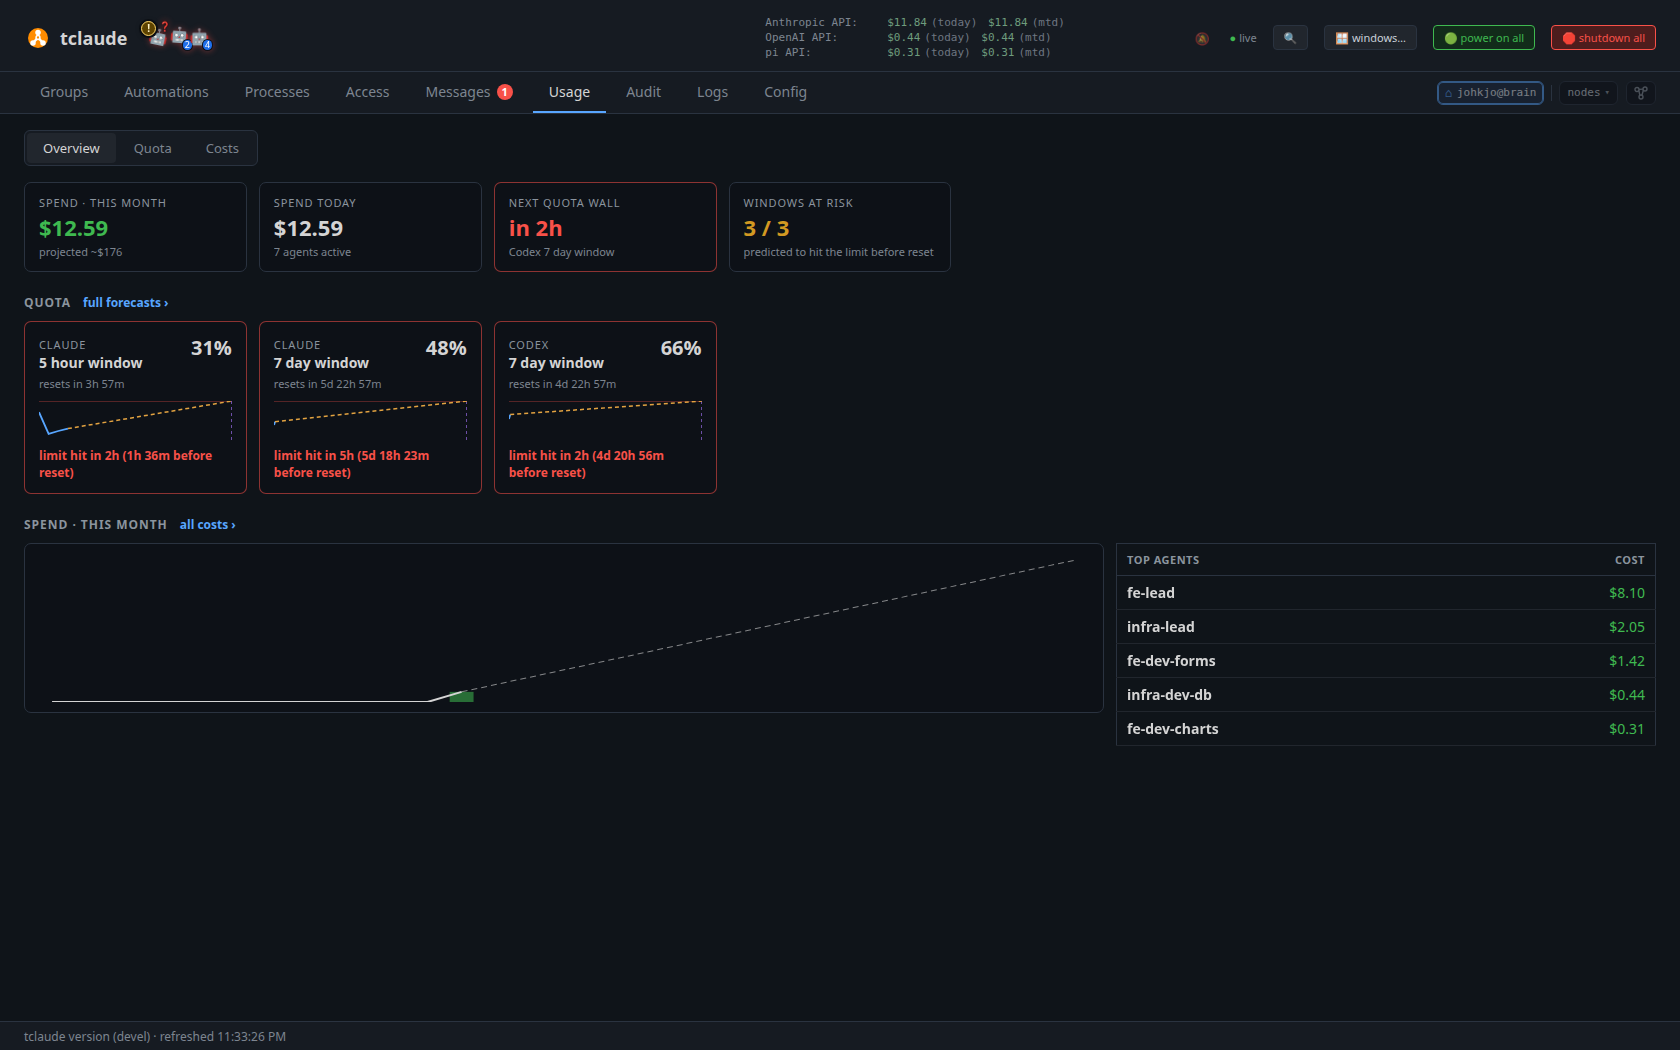
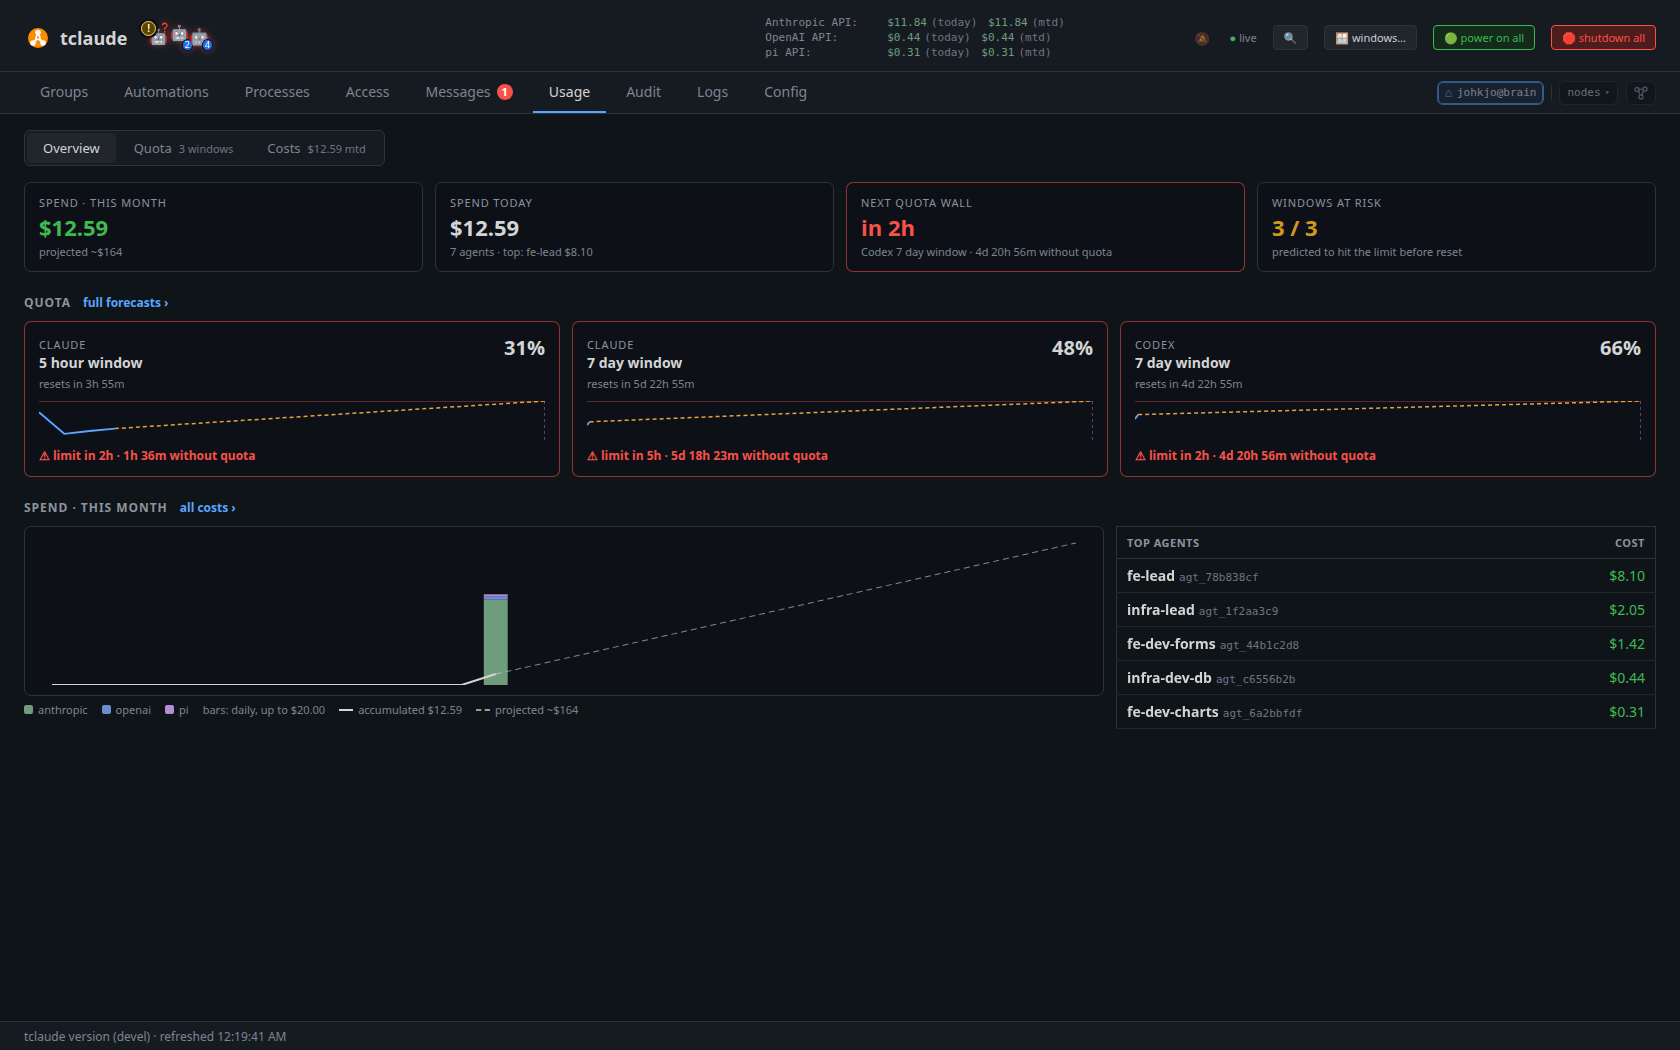
Bring the Usage overview closer to its mock and keep Costs findable
Inspection pass against the approved mock and the old tabs:
- Spend bars get their own daily scale and stack by provider in the
  Costs palette, with a legend naming both scales; they were near
  invisible on the projection's scale.
- Headline and quota cards fill the row; quota cards show a one-line
  "limit in 2h · 1h 36m without quota" status.
- Spend today names today's top agent; the next quota wall says how
  long it goes without quota; top agents keep their ids.
- Quota and Costs subtabs carry window-count and spend badges.
- The Overview surfaces the Quota view's OpenCode coverage warning.
- The command palette regains Costs (and Quota) commands, lost with the
  retired nav tab; the header cost link and the palette share one
  hub open() path.

diff --git a/pkg/claude/agentd/dashboard/js/usage-hub-island.js b/pkg/claude/agentd/dashboard/js/usage-hub-island.js
@@ -1,11 +1,13 @@
 import { h, render } from 'preact';
 import { useEffect, useState } from 'preact/hooks';
 import htm from 'htm';
-import { isModifiedClick } from './helpers.js';
+import { isModifiedClick, shortAgentId } from './helpers.js';
 import { isWizardActive } from './slop.js';
-import { COST_SPANS, dayKey, fmtExactUSD, fmtUSD } from './costs-model.js';
 import {
-  formatUsageResetCountdown, formatUsageTime, usageForecastOf, usageForecastView,
+  COST_SPANS, costProviderLabel, dayKey, fmtExactUSD, fmtUSD, niceCeil, providerSegmentClass,
+} from './costs-model.js';
+import {
+  formatUsageDuration, formatUsageResetCountdown, formatUsageTime, usageForecastOf, usageForecastView,
   usageProviderLabel, usageSeriesKeyOf, usageWindowScopeLabel,
 } from './usage-history-model.js';
 import { usageLocation } from './usage-hub-state.js';
@@ -84,7 +86,9 @@ export function topCostAgents(rows, limit = 5) {
   const byAgent = new Map();
   for (const row of rows || []) {
     const key = row.agent_id || row.conv_id;
-    const entry = byAgent.get(key) || { key, title: row.title || '(unknown)', cost: 0, whatIf: false };
+    const entry = byAgent.get(key) || {
+      key, title: row.title || '(unknown)', agentID: row.agent_id, convID: row.conv_id, cost: 0, whatIf: false,
+    };
     entry.cost += row.cost_usd || 0;
     entry.whatIf ||= row.cost_kind === 'what_if' || row.cost_kind === 'mixed';
     byAgent.set(key, entry);
@@ -99,9 +103,49 @@ export function todaySpend(costs, now = new Date()) {
   const key = dayKey(now);
   const day = (costs.narrowed?.days || []).find((item) => item.day === key);
   if (!day) return null;
-  const agents = new Set((costs.rows || []).filter((row) => row.day === key)
-    .map((row) => row.agent_id || row.conv_id));
-  return { cost: day.cost_usd || 0, agents: agents.size };
+  const top = topCostAgents((costs.rows || []).filter((row) => row.day === key), Infinity);
+  return { cost: day.cost_usd || 0, agents: top.length, top: top[0] || null };
+}
+
+// gapBeforeReset is how long a window predicted to hit its limit before it
+// resets stays without quota; '' when the forecast does not say.
+export function gapBeforeReset(forecast) {
+  if (forecast?.status !== 'before_reset') return '';
+  const gap = new Date(forecast.reset_at).getTime() - new Date(forecast.hits_limit_at).getTime();
+  return Number.isFinite(gap) && gap > 0 ? formatUsageDuration(gap) : '';
+}
+
+// quotaStatusLine is the compact card's one-line prediction. The full
+// sentence (and its rate) stays on the Quota view.
+export function quotaStatusLine(item, wizard = false) {
+  const w = (plain, wizardly) => (wizard ? wizardly : plain);
+  const forecast = item.forecast;
+  if (item.status === 'limit') return w('⚠ limit reached', '⚠ the reserves are spent');
+  if (item.status === 'before_reset' || item.status === 'projected') {
+    const gap = gapBeforeReset(forecast);
+    return `⚠ ${w('limit', 'dry')} ${formatUsageTime(forecast.hits_limit_at, item.now)}${gap ? ` · ${gap} ${w('without quota', 'without mana')}` : ''}`;
+  }
+  if (item.status === 'after_reset' || item.status === 'flat') return `✓ ${w('resets before the limit', 'the reserves hold')}`;
+  return item.view.headline.replace(/^(Prediction|Prophecy): /, '');
+}
+
+// spendDays splits each day of the shown span by provider, in the Costs
+// view's provider palette, so the Overview's bars read like its stacks.
+export function spendDays(costs) {
+  const providers = costs.providers || [];
+  const agents = costs.narrowed?.agents || [];
+  return (costs.narrowed?.days || []).map((day) => {
+    const byProvider = new Map();
+    for (const agent of agents) {
+      if (agent.day !== day.day || !(agent.cost_usd > 0)) continue;
+      const provider = costProviderLabel(agent);
+      byProvider.set(provider, (byProvider.get(provider) || 0) + agent.cost_usd);
+    }
+    const segments = [...byProvider].map(([provider, cost]) => ({
+      provider, cost, className: providerSegmentClass(provider, providers),
+    })).sort((a, b) => providers.indexOf(a.provider) - providers.indexOf(b.provider));
+    return { day: day.day, cost: day.cost_usd || 0, whatIf: day.cost_kind === 'what_if', segments };
+  });
 }
 
 // ---- Views -----------------------------------------------------------------
@@ -148,7 +192,7 @@ function QuotaCard({ item, wizard, onOpen }) {
     </div>
     <span class="usage-ov-meta">${item.reset || (latest ? formatUsageTime(latest.at, item.now) : '')}</span>
     <${Sparkline} points=${item.points} forecast=${item.forecast} now=${item.now} />
-    <span class=${`usage-ov-status ${tone}`}>${item.view.headline.replace(/^(Prediction|Prophecy): /, '')}</span>
+    <span class=${`usage-ov-status ${tone}`} title=${item.view.headline}>${quotaStatusLine(item, wizard)}</span>
   </a>`;
 }
 
@@ -161,31 +205,51 @@ function Kpi({ label, value, meta, tone = '', onOpen, href }) {
 }
 
 function SpendChart({ costs }) {
-  const days = costs.narrowed?.days || [];
+  const days = spendDays(costs);
   const W = 720;
   const H = 150;
   if (!days.length) return html`<div class="usage-ov-chart empty">No days in span.</div>`;
   const future = costs.projection?.future || [];
   const slots = days.length + future.length;
   let running = 0;
-  const cumulative = days.map((day) => (running += day.cost_usd || 0));
-  const top = Math.max(running, costs.projection?.total || 0, ...days.map((day) => day.cost_usd || 0)) || 1;
+  const cumulative = days.map((day) => (running += day.cost));
+  // Two scales, as in the mock: the bars read the day-to-day pace, the line
+  // the running total and where the projection lands. The legend names both.
+  const dailyTop = niceCeil(Math.max(...days.map((day) => day.cost))) || 1;
+  const totalTop = Math.max(running, costs.projection?.total || 0) || 1;
   const bw = W / slots;
-  const y = (value) => H - (value / top) * (H - 6);
-  const line = cumulative.map((value, index) => `${(index + 0.5) * bw},${y(value)}`).join(' ');
-  return html`<div class="usage-ov-chart" role="img"
-    aria-label=${`${spanLabel(costs)} spend ${fmtExactUSD(running)}${costs.projection ? `, projected ${fmtExactUSD(costs.projection.total)}` : ''}`}>
-    <svg viewBox=${`0 0 ${W} ${H}`} preserveAspectRatio="none" aria-hidden="true">
-      ${days.map((day, index) => {
-        const height = H - y(day.cost_usd || 0);
-        return height > 0 && html`<rect key=${day.day} class=${`bar ${day.cost_kind === 'what_if' ? 'what-if' : ''}`}
-          x=${index * bw + bw * 0.15} y=${H - height} width=${bw * 0.7} height=${height}>
-          <title>${day.day}: ${fmtExactUSD(day.cost_usd || 0)}</title></rect>`;
-      })}
-      <polyline class="cumulative" points=${line} />
-      ${costs.projection && html`<line class="projection" x1=${(days.length - 0.5) * bw} y1=${y(running)}
-        x2=${W - bw / 2} y2=${y(costs.projection.total)} />`}
-    </svg>
+  const yDaily = (value) => (value / dailyTop) * (H - 4);
+  const yTotal = (value) => H - (value / totalTop) * (H - 6);
+  const line = cumulative.map((value, index) => `${(index + 0.5) * bw},${yTotal(value)}`).join(' ');
+  const providers = [...new Set(days.flatMap((day) => day.segments.map((segment) => segment.provider)))];
+  return html`<div class="usage-ov-chart-wrap">
+    <div class="usage-ov-chart" role="img"
+      aria-label=${`${spanLabel(costs)} spend ${fmtExactUSD(running)}${costs.projection ? `, projected ${fmtExactUSD(costs.projection.total)}` : ''}`}>
+      <svg viewBox=${`0 0 ${W} ${H}`} preserveAspectRatio="none" aria-hidden="true">
+        ${days.map((day, index) => {
+          let top = H;
+          return html`<g key=${day.day} class=${day.whatIf ? 'what-if' : ''}>
+            <title>${day.day}: ${fmtExactUSD(day.cost)}${day.segments.length > 1
+              ? ` (${day.segments.map((segment) => `${segment.provider} ${fmtUSD(segment.cost)}`).join(', ')})` : ''}</title>
+            ${day.segments.map((segment) => {
+              const height = yDaily(segment.cost);
+              top -= height;
+              return html`<rect key=${segment.provider} class=${`bar ${segment.className}`}
+                x=${index * bw + bw * 0.15} y=${top} width=${bw * 0.7} height=${height} />`;
+            })}
+          </g>`;
+        })}
+        <polyline class="cumulative" points=${line} />
+        ${costs.projection && html`<line class="projection" x1=${(days.length - 0.5) * bw} y1=${yTotal(running)}
+          x2=${W - bw / 2} y2=${yTotal(costs.projection.total)} />`}
+      </svg>
+    </div>
+    <div class="usage-ov-legend">
+      ${providers.map((provider) => html`<span key=${provider}><i class=${`swatch ${providerSegmentClass(provider, costs.providers || [])}`}></i>${provider}</span>`)}
+      <span>bars: daily, up to ${fmtUSD(dailyTop)}</span>
+      <span><i class="line"></i>accumulated ${fmtUSD(running)}</span>
+      ${costs.projection && html`<span><i class="line dashed"></i>projected ~${fmtUSD(costs.projection.total)}</span>`}
+    </div>
   </div>`;
 }
 
@@ -211,19 +275,23 @@ function Overview({ quota, costs, wizard, open }) {
       <${Kpi} label=${w('Spend today', 'Spent today')} href="/usage/costs" onOpen=${goCosts}
         value=${!costsLoaded ? '…' : today ? fmtUSD(today.cost) : '—'}
         meta=${!costsLoaded ? '' : today
-          ? `${today.agents} agent${today.agents === 1 ? '' : 's'} active`
+          ? `${today.agents} agent${today.agents === 1 ? '' : 's'}${today.top ? ` · top: ${today.top.title} ${fmtUSD(today.top.cost)}` : ''}`
           : `not in ${spanLabel(costs)}`} />
       <${Kpi} label=${w('Next quota wall', 'Next dry spell')} href="/usage/quota" onOpen=${goQuota}
         tone=${wall ? 'danger' : 'good'}
         value=${!quotaLoaded ? '…' : wall ? (wall.status === 'limit' ? w('now', 'now') : formatUsageTime(wall.forecast.hits_limit_at, wall.now)) : w('none', 'none')}
         meta=${!quotaLoaded ? '' : wall
-          ? `${usageProviderLabel(wall.series.provider)} ${usageWindowScopeLabel(wall.series, wizard)}`
+          ? `${usageProviderLabel(wall.series.provider)} ${usageWindowScopeLabel(wall.series, wizard)}${gapBeforeReset(wall.forecast)
+            ? ` · ${gapBeforeReset(wall.forecast)} ${w('without quota', 'without mana')}` : ''}`
           : w('no window predicted to run out', 'every reserve holds')} />
       <${Kpi} label=${w('Windows at risk', 'Reserves at risk')} href="/usage/quota" onOpen=${goQuota}
         tone=${atRisk ? 'warn' : 'good'}
         value=${quotaLoaded ? `${atRisk} / ${summaries.length}` : '…'}
         meta=${quotaLoaded ? w('predicted to hit the limit before reset', 'foretold to run dry before replenishment') : ''} />
     </div>
+    ${quotaLoaded && quota.payload?.coverage_warnings?.length > 0 && html`<a class="usage-ov-coverage" href="/usage/quota"
+      onClick=${goQuota} role="status">⚠ ${w('Some quota graphs may be incomplete or stale (OpenCode activity has no native quota history) — see Quota',
+        'Some reserves may be misread (OpenCode channels unseen) — see Reserves')}.</a>`}
     <h3 class="usage-ov-heading">${w('Quota', 'Reserves')}
       <a href="/usage/quota" onClick=${goQuota}>${w('full forecasts', 'full prophecies')} ›</a></h3>
     ${quota.request.phase === 'error' && !quotaLoaded
@@ -243,7 +311,8 @@ function Overview({ quota, costs, wizard, open }) {
           <table class="usage-ov-agents">
             <thead><tr><th>${w('Top agents', 'Top spenders')}</th><th>${w('Cost', 'Gold')}</th></tr></thead>
             <tbody>${top.length
-              ? top.map((agent) => html`<tr key=${agent.key}><td><span class="rowname">${agent.title}</span></td>
+              ? top.map((agent) => html`<tr key=${agent.key}><td><span class="rowname">${agent.title}</span>
+                <span class="id">${shortAgentId(agent.agentID, agent.convID)}</span></td>
                 <td class="cost">${agent.whatIf ? '≈' : ''}${fmtUSD(agent.cost)}</td></tr>`)
               : html`<tr><td colspan="2" class="muted">No spend in this span.</td></tr>`}</tbody>
           </table>
@@ -253,14 +322,26 @@ function Overview({ quota, costs, wizard, open }) {
   </div>`;
 }
 
-function Subnav({ current, wizard, open }) {
+function subtabMeta(name, quota, costs) {
+  if (name === 'quota' && quota.request.hasLoaded) {
+    const count = quota.series.length;
+    return count ? `${count} window${count === 1 ? '' : 's'}` : '';
+  }
+  if (name === 'costs' && costs.request.hasLoaded && costs.narrowed) {
+    return `${fmtUSD(costs.narrowed.total_usd)}${costs.span === 'month' ? ' mtd' : ''}`;
+  }
+  return '';
+}
+
+function Subnav({ current, wizard, open, quota, costs }) {
   return html`<nav class="usage-subnav" aria-label="Usage views">
     ${['overview', 'quota', 'costs'].map((name) => {
       const loc = usageLocation(name);
       const href = loc.subtab ? `/usage/${loc.subtab}` : '/usage';
       return html`<a key=${name} class=${`usage-subtab${current.subview === name ? ' active' : ''}`} href=${href}
         data-usage-subtab=${name} aria-current=${current.subview === name ? 'page' : undefined}
-        onClick=${open(name)}>${SUBVIEW_LABELS[name][wizard ? 1 : 0]}</a>`;
+        onClick=${open(name)}>${SUBVIEW_LABELS[name][wizard ? 1 : 0]}${subtabMeta(name, quota, costs)
+          && html`<span class="usage-subtab-meta">${subtabMeta(name, quota, costs)}</span>`}</a>`;
     })}
   </nav>`;
 }
@@ -292,7 +373,8 @@ export function UsageHubApp({ state, quotaState, costsState }) {
     document.querySelector('#tab-usage')?.setAttribute('data-subview', current.subview);
   }, [current.subview]);
   return html`<div class="usage-hub">
-    ${current.showSubnav && html`<${Subnav} current=${current} wizard=${wizard} open=${open} />`}
+    ${current.showSubnav && html`<${Subnav} current=${current} wizard=${wizard} open=${open}
+      quota=${quotaState.view.value} costs=${costsState.view.value} />`}
     ${current.subview === 'overview' && html`<${Overview} quota=${quotaState.view.value}
       costs=${costsState.view.value} wizard=${wizard} open=${open} />`}
   </div>`;
@@ -305,12 +387,7 @@ export function mountUsageHubIsland({ host, state, quotaState, costsState, regis
   // The header's cost figures link here: land on the Costs view as one
   // history step (the nav click records the hub's location).
   const gotoCosts = (event) => {
-    if (!event.target.closest?.('[data-goto-tab="costs"]')) return;
-    state.select('costs');
-    const nav = document.querySelector('nav [data-tab="usage"]');
-    if (nav?.classList.contains('active')) {
-      document.dispatchEvent(new CustomEvent('tclaude:navigated', { detail: { location: state.location.value } }));
-    } else nav?.click();
+    if (event.target.closest?.('[data-goto-tab="costs"]')) state.open('costs');
   };
   document.addEventListener('tclaude:restore-location', restore);
   document.addEventListener('click', gotoCosts);

diff --git a/pkg/claude/agentd/dashboard/dashboard.css b/pkg/claude/agentd/dashboard/dashboard.css
@@ -9815,9 +9815,10 @@ body.hide-usage-costs #costs-root { display: none; }
 }
 .usage-subtab:hover { color: #d4d4d4; }
 .usage-subtab.active { background: #21262d; color: #d4d4d4; font-weight: 500; }
+.usage-subtab-meta { margin-left: 7px; color: #6e7681; font-size: 11px; font-weight: 400; }
 .usage-overview .empty { margin: 0; }
 .usage-ov-kpis, .usage-ov-quota-grid {
-  display: grid; gap: 12px; grid-template-columns: repeat(auto-fill, minmax(220px, 1fr));
+  display: grid; gap: 12px; grid-template-columns: repeat(auto-fit, minmax(220px, 1fr));
 }
 .usage-ov-card {
   display: flex; flex-direction: column; gap: 4px; min-width: 0; padding: 12px 14px;
@@ -9853,8 +9854,24 @@ body.hide-usage-costs #costs-root { display: none; }
 .usage-ov-spend { display: grid; grid-template-columns: minmax(0, 2fr) minmax(220px, 1fr); gap: 12px; align-items: start; }
 .usage-ov-chart { height: 170px; padding: 10px; border: 1px solid #2a3340; border-radius: 7px; background: #0d1117; }
 .usage-ov-chart svg { width: 100%; height: 100%; display: block; }
-.usage-ov-chart .bar { fill: rgba(63, 185, 80, .55); }
-.usage-ov-chart .bar.what-if { fill: rgba(88, 166, 255, .5); }
+/* The Costs view's provider palette (.cost-seg-hN), as SVG fills. */
+.usage-ov-chart .bar.cost-seg-h0, .usage-ov-legend .cost-seg-h0 { fill: #6e9c7d; background: #6e9c7d; }
+.usage-ov-chart .bar.cost-seg-h1, .usage-ov-legend .cost-seg-h1 { fill: #6a8fd0; background: #6a8fd0; }
+.usage-ov-chart .bar.cost-seg-h2, .usage-ov-legend .cost-seg-h2 { fill: #b58cd6; background: #b58cd6; }
+.usage-ov-chart .bar.cost-seg-h3, .usage-ov-legend .cost-seg-h3 { fill: #d0a860; background: #d0a860; }
+.usage-ov-chart .bar.cost-seg-h4, .usage-ov-legend .cost-seg-h4 { fill: #5bb0a5; background: #5bb0a5; }
+.usage-ov-chart .bar.cost-seg-h5, .usage-ov-legend .cost-seg-h5 { fill: #cf8a8a; background: #cf8a8a; }
+.usage-ov-chart .what-if .bar { fill-opacity: .55; }
+.usage-ov-legend { display: flex; flex-wrap: wrap; gap: 4px 14px; margin-top: 6px; color: #7d8590; font-size: 11px; }
+.usage-ov-legend span { display: inline-flex; align-items: center; gap: 5px; }
+.usage-ov-legend .swatch { display: inline-block; width: 9px; height: 9px; border-radius: 2px; }
+.usage-ov-legend .line { display: inline-block; width: 14px; border-top: 2px solid #d4d4d4; }
+.usage-ov-legend .line.dashed { border-top-style: dashed; opacity: .7; }
+.usage-ov-agents .id { color: #6e7681; font-family: ui-monospace, monospace; font-size: 11px; margin-left: 4px; }
+.usage-ov-coverage {
+  display: block; margin: 12px 0 0; padding: 8px 12px; border: 1px solid rgba(210, 153, 34, .45);
+  border-radius: 6px; color: #d29922; font-size: 12px; text-decoration: none;
+}
 .usage-ov-chart .cumulative { fill: none; stroke: #d4d4d4; stroke-width: 2; vector-effect: non-scaling-stroke; }
 .usage-ov-chart .projection { stroke: #d4d4d4; stroke-dasharray: 6 4; opacity: .6; vector-effect: non-scaling-stroke; }
 .usage-ov-agents { width: 100%; border-collapse: collapse; border: 1px solid #2a3340; border-radius: 7px; }

diff --git a/pkg/claude/agentd/dashboard/js/palette.js b/pkg/claude/agentd/dashboard/js/palette.js
@@ -43,6 +43,7 @@ import { openGitRepositories } from './git-repositories-controller.js';
 // ends), Enter runs it, typing filters.
 
 import { $, $$ } from './helpers.js';
+import { featureState } from './feature-state-registry.js';
 import { toast, noteGroupDisclosureIntent } from './refresh.js';
 import {
   openWindowModal,
@@ -593,6 +594,25 @@ export function buildCommands(snapshot) {
         + ' scry peer gaze behold chamber vision',
       run: () => btn.click(),
     });
+  }
+  // The Usage tab's Quota and Costs views were tabs of their own: keep them
+  // one command away (and findable as "costs") rather than behind Usage.
+  const usageBtn = $('nav [data-tab="usage"]');
+  const usageHub = featureState('usage-hub');
+  if (usageHub && usageBtn && usageBtn.offsetParent !== null && usageBtn.getAttribute('aria-disabled') !== 'true') {
+    for (const [view, plain, wizardly, words] of [
+      ['quota', 'Quota', 'Reserves', 'quota limits forecast subscription window reserves mana'],
+      ['costs', 'Costs', 'Coffers', 'costs spend money billing dollars coffers gold'],
+    ]) {
+      if (document.body.classList.contains(`hide-usage-${view}`)) continue;
+      cmds.push({
+        peerView: 'tab', tab: 'usage', icon: wiz('⤢', '🪞'),
+        label: wiz(`Go to Usage › ${plain}`, `Scry the ${wizardly}`),
+        hint: wiz('switch tab', 'peer into this chamber of the Tower'),
+        keywords: `tab navigate go open usage ${words}`,
+        run: () => usageHub.open(view),
+      });
+    }
   }
   // Fleet administration has no visible tab before the first peer is
   // trusted (the Skynet bar appears with the fleet), so it is reached here.

diff --git a/pkg/claude/agentd/dashboard/js/usage-hub-state.js b/pkg/claude/agentd/dashboard/js/usage-hub-state.js
@@ -71,7 +71,21 @@ export function createUsageHubState({
     return tab === 'usage' && (subview.value === name || subview.value === 'overview');
   }
 
-  return Object.freeze({ requested, halves, subview, location, view, select, applyLocation, shown, polling });
+  // open brings a view up from outside the tab (the header's cost link, the
+  // command palette) as ONE history step: with the view chosen first, the
+  // nav click records the hub's location; already on the tab, the switch is
+  // announced like a subnav click.
+  function open(name, doc = globalThis.document) {
+    if (!USAGE_SUBVIEWS.includes(name)) return false;
+    const changed = select(name);
+    const nav = doc?.querySelector('nav [data-tab="usage"]');
+    if (!nav) return false;
+    if (!nav.classList.contains('active')) nav.click();
+    else if (changed) doc.dispatchEvent(new CustomEvent('tclaude:navigated', { detail: { location: location.value } }));
+    return true;
+  }
+
+  return Object.freeze({ requested, halves, subview, location, view, select, applyLocation, shown, polling, open });
 }
 
 export const usageHubState = createUsageHubState();

diff --git a/pkg/claude/agentd/dashboard_costs_html_test.go b/pkg/claude/agentd/dashboard_costs_html_test.go
@@ -50,9 +50,9 @@ func TestDashboardHTML_TopBarTotalCostWired(t *testing.T) {
 	// The token links to the Usage tab's Costs view: shell-island.js tags it,
 	// the Usage hub selects Costs and delegates the switch to the nav button.
 	must(`data-goto-tab="costs"`, "cost token tagged as a Costs-view link")
-	must(`state.select('costs');`, "Usage hub selects its Costs view on a token click")
-	must(`const nav = document.querySelector('nav [data-tab="usage"]');`,
-		"Usage hub opens the tab via the nav button on a token click")
+	must(`[data-goto-tab="costs"]')) state.open('costs');`, "Usage hub opens its Costs view on a token click")
+	must(`const nav = doc?.querySelector('nav [data-tab="usage"]');`,
+		"Usage hub opens the tab via the nav button")
 
 	// The no-data state is unchanged: neither windows nor cost → n/a.
 	must("'usage: n/a'", "graceful n/a fallback still present")
